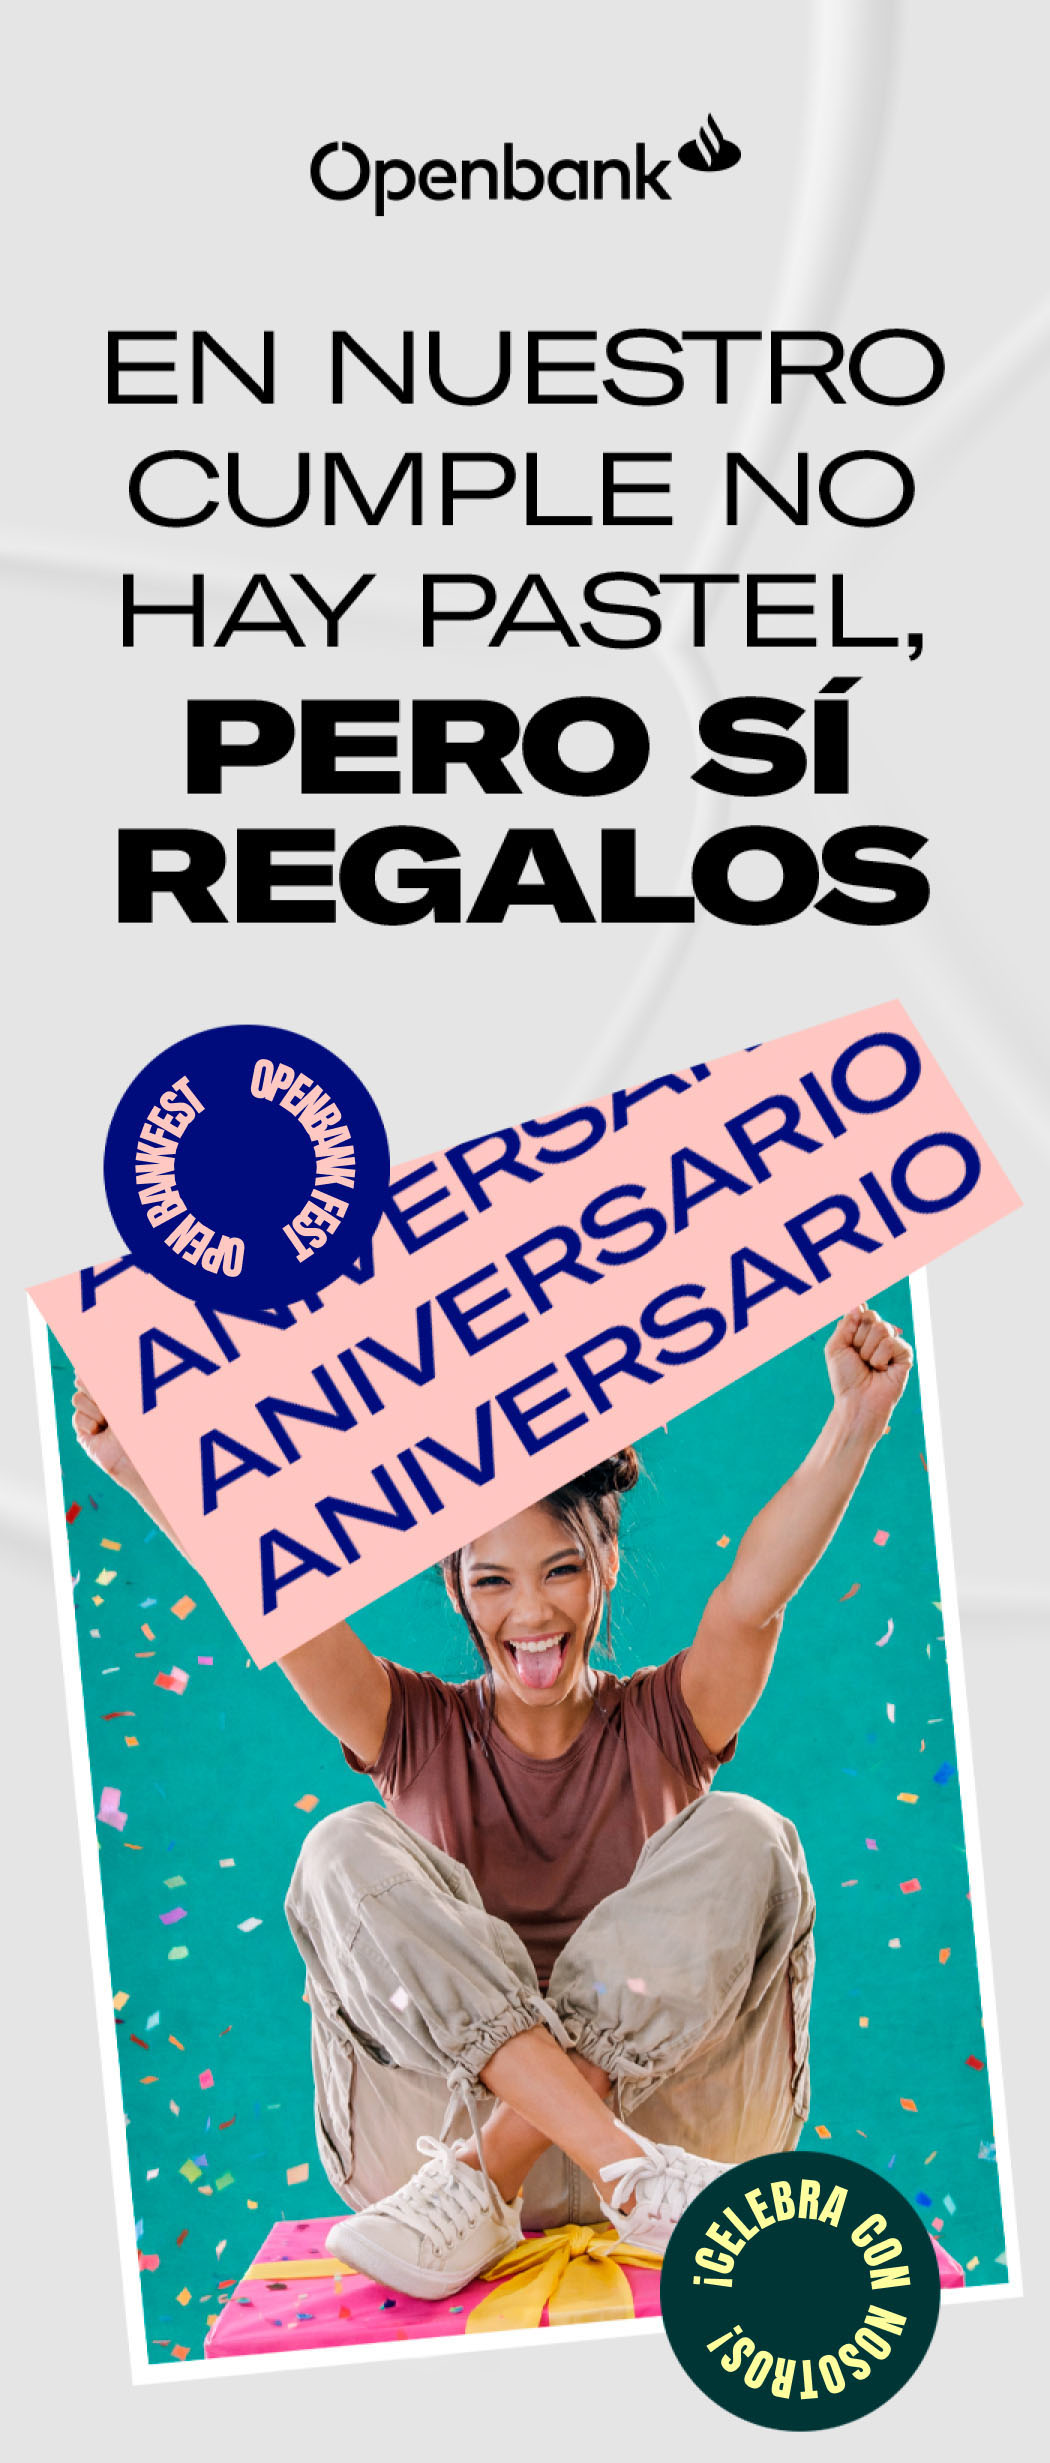
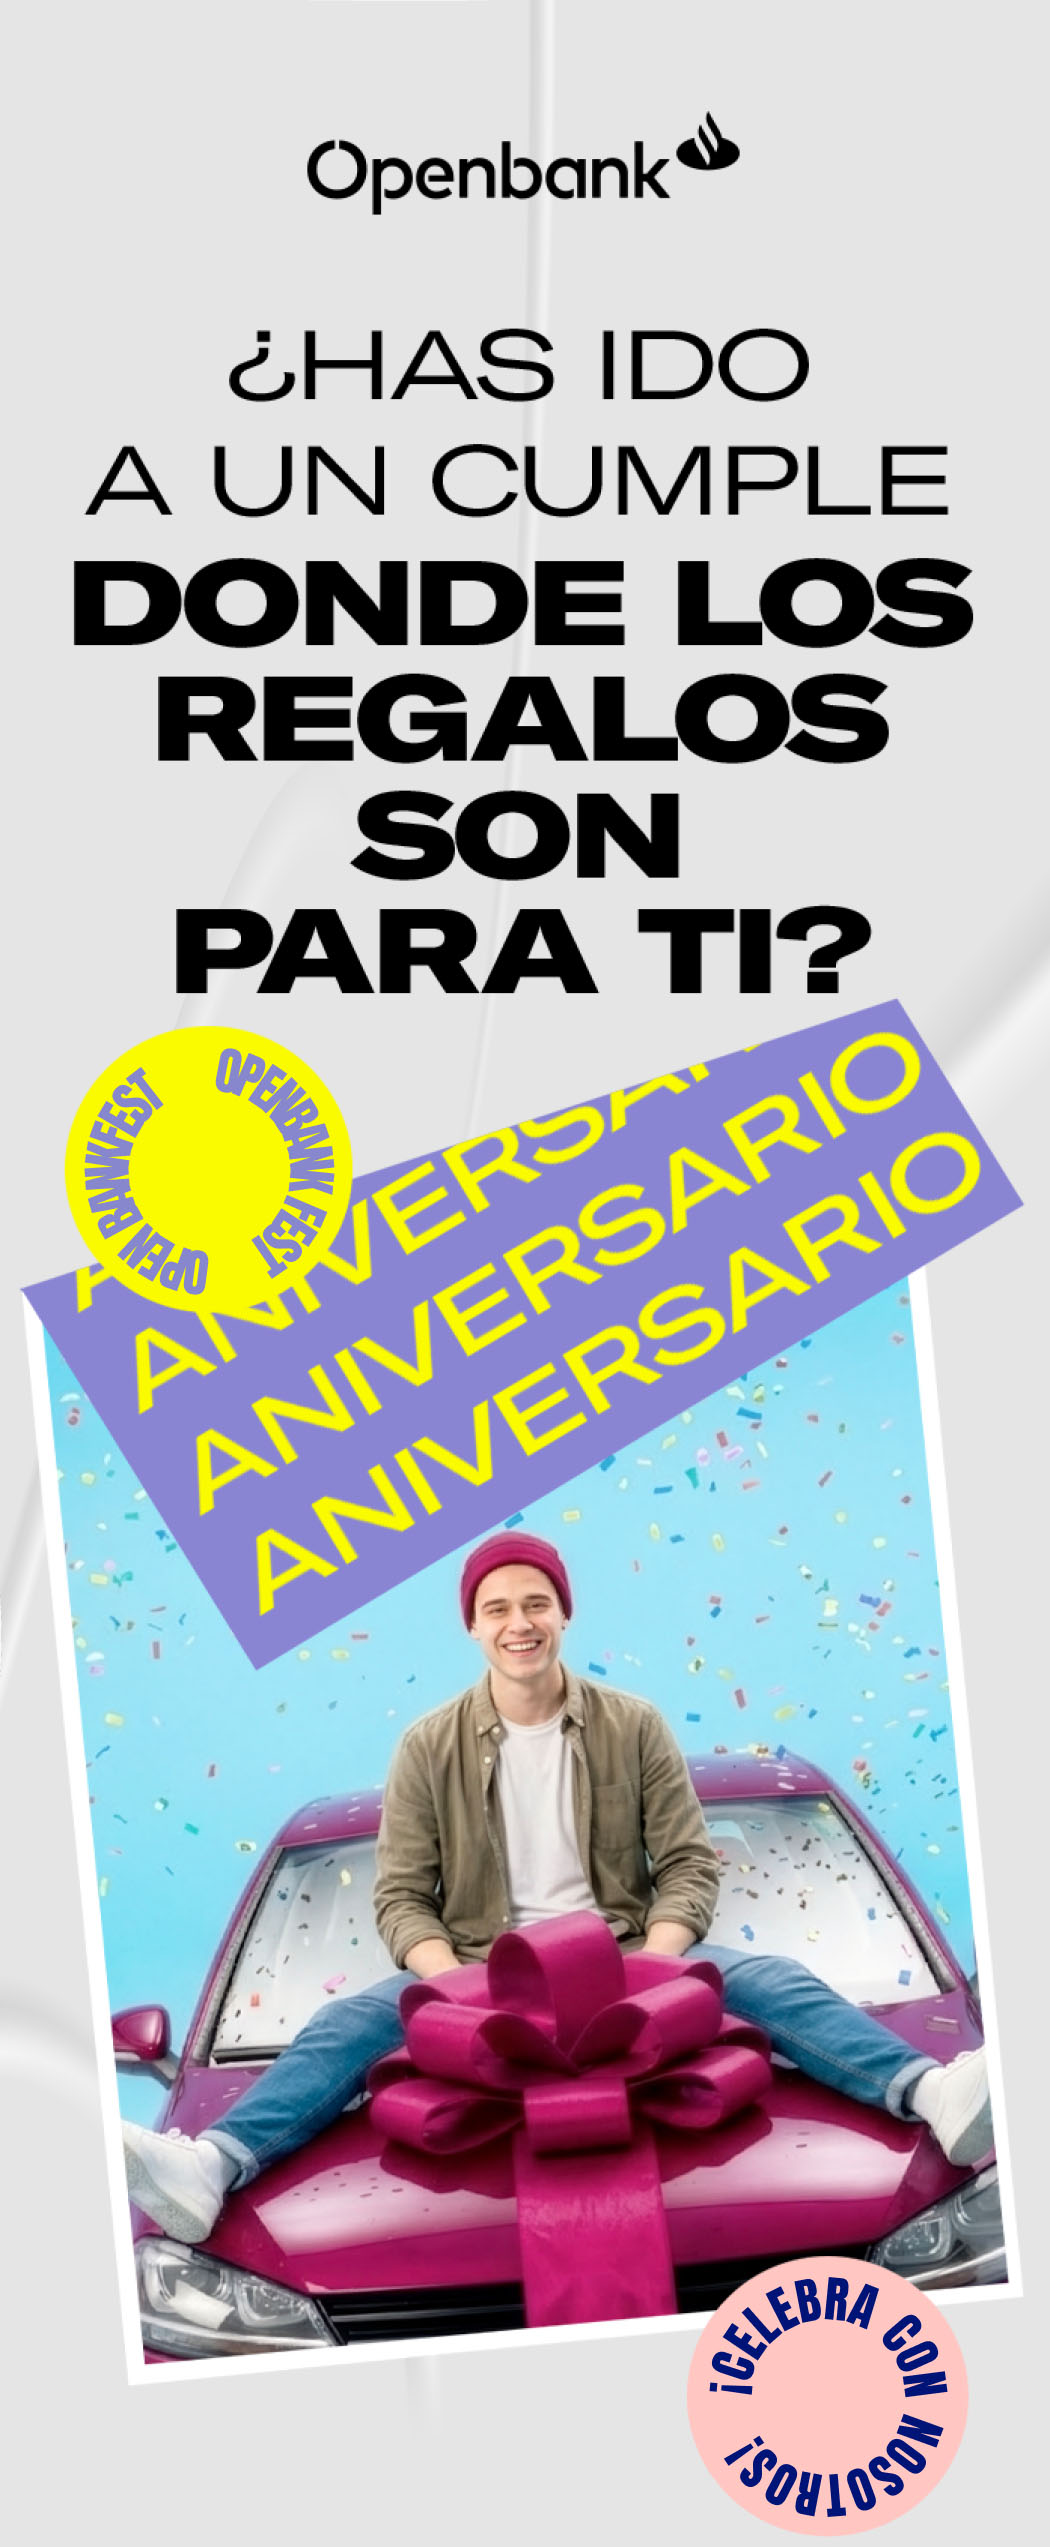
x

diff --git a/2026/02/02_Aniversario_TDD2/02_Aniversario_TDD2.html b/2026/02/02_Aniversario_TDD2/02_Aniversario_TDD2.html
@@ -479,13 +479,13 @@
         style="background-image: linear-gradient(#FFFFFF, #FFFFFF); background-color: #FFFFFF; background-repeat: repeat;-webkit-text-size-adjust:100%;-ms-text-size-adjust:100%;mso-table-lspace:0pt;mso-table-rspace:0pt;mso-default-height:100%;mso-default-width:100%;mso-space-above:no;mso-space-below:no;margin:0;padding:0;width:100%;max-width:600px;border-collapse:collapse !important;border-spacing:0 !important;table-layout:fixed !important;padding:0 !important;margin: 0; padding: 0; max-width: 600px;font-family: 'GT-America-Extended', sans-serif;">
             <tr>
                 <td>
-                    <img src="https://openbank-newsletter-q2k5.vercel.app/2026/02/01_Aniversario_TDD/img/header.jpg" width="100%" alt="" style="display:block;margin-top:-20px; margin-bottom:0;">
+                    <img src="https://openbank-newsletter-q2k5.vercel.app/2026/02/02_Aniversario_TDD2/img/header.jpg" width="100%" alt="" style="display:block;margin-top:-20px; margin-bottom:0;">
                 </td>
             </tr>
 		  
-          <tr style="margin:0;background-color: #efefef; background-image: linear-gradient(#efefef, #efefef); background-image:url('https://openbank-newsletter-q2k5.vercel.app/2026/02/01_Aniversario_TDD/img/bg.png'); background-repeat: repeat;">
+          <tr style="margin:0;background-color: #efefef; background-image: linear-gradient(#efefef, #efefef); background-image:url('https://openbank-newsletter-q2k5.vercel.app/2026/02/02_Aniversario_TDD2/img/bg.png'); background-repeat: repeat;">
               <td>
-                <table border="0" cellpadding="0" cellspacing="0" width="100%" style="background-color: #efefef; background-image: linear-gradient(#efefef, #efefef); background-image:url('https://openbank-newsletter-q2k5.vercel.app/2026/02/01_Aniversario_TDD/img/bg.png'); background-repeat: repeat; margin:0 0 -5px 0;padding:0;border-collapse:collapse !important;border-spacing:0 !important;table-layout:fixed !important;">
+                <table border="0" cellpadding="0" cellspacing="0" width="100%" style="background-color: #efefef; background-image: linear-gradient(#efefef, #efefef); background-image:url('https://openbank-newsletter-q2k5.vercel.app/2026/02/02_Aniversario_TDD2/img/bg.png'); background-repeat: repeat; margin:0 0 -5px 0;padding:0;border-collapse:collapse !important;border-spacing:0 !important;table-layout:fixed !important;">
                   <tbody><tr>
                     <td style="font-family: 'GT-America-Extended', sans-serif; font-size: 30px; line-height: 3; color: rgb(135, 135, 205); text-align: center; -webkit-text-size-adjust: none; padding: 40px 0px 20px; width: 70%">
                       <h1 style="margin:0 0 20px;font-weight: normal;font-size: 30px; line-height: 30px; margin:0; "><strong>HOLA [NOMBRE]:</strong></h1>
@@ -497,7 +497,7 @@
            
         <tr style="margin-top:-5px;">
                 <td>
-            <img src="https://openbank-newsletter-q2k5.vercel.app/2026/02/01_Aniversario_TDD/img/content.png" width="100%" alt="" style="display:block;margin:0"></td>
+            <img src="https://openbank-newsletter-q2k5.vercel.app/2026/02/02_Aniversario_TDD2/img/content.png" width="100%" alt="" style="display:block;margin:0"></td>
             </tr>
 		  
         </table>
@@ -505,7 +505,7 @@
         style="-webkit-text-size-adjust:100%;-ms-text-size-adjust:100%;mso-table-lspace:0pt;mso-table-rspace:0pt;mso-default-height:100%;mso-default-width:100%;mso-space-above:no;mso-space-below:no;margin:0;padding:0;width:100%;max-width:600px;border-collapse:collapse !important;border-spacing:0 !important;table-layout:fixed !important;padding:0 !important;table-layout:auto !important;margin: 0; padding: 0; max-width: 600px; background-image: url('https://openbank-newsletter-q2k5.vercel.app/img/rrss/footer-bg.png'); background-image: linear-gradient(#000000, #000000); background-color: #000000; background-repeat: repeat;">
         <tr>
           <td>
-            <img src="https://openbank-newsletter-q2k5.vercel.app/2026/02/01_Aniversario_TDD/img/footer.png" width="100%" alt="" style="display:block;margin-bottom:5px;">
+            <img src="https://openbank-newsletter-q2k5.vercel.app/2026/02/02_Aniversario_TDD2/img/footer.png" width="100%" alt="" style="display:block;margin-bottom:5px;">
           </td>
         </tr>
         <tr>
